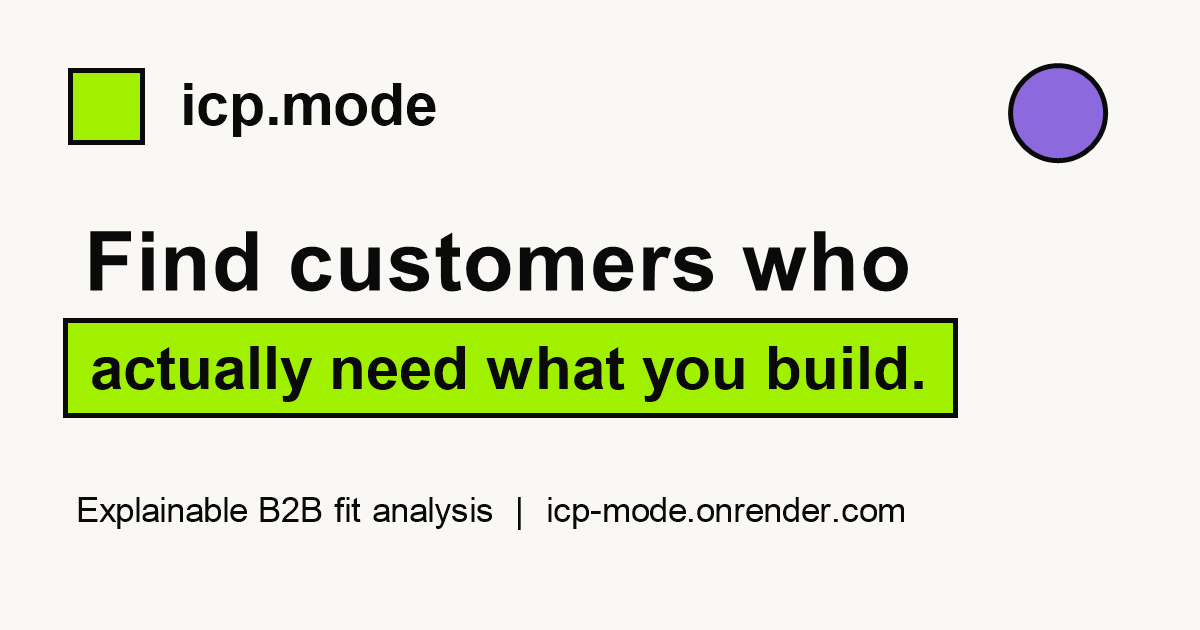
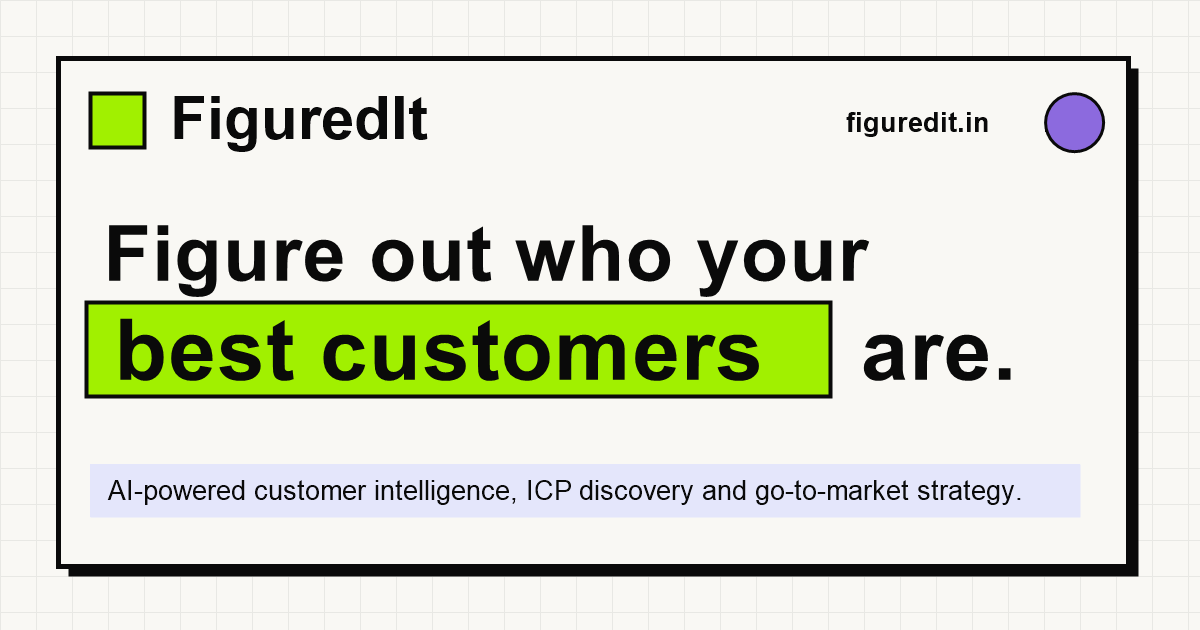
Rebrand ICP app as FiguredIt

Changed region(s): [[0.0308, 0.0905, 0.9558, 0.9349]]

diff --git a/src/pages/ICPReportPage.tsx b/src/pages/ICPReportPage.tsx
@@ -345,7 +345,7 @@ export const ICPReportPage: React.FC<ICPReportPageProps> = ({ params }) => {
     const url = URL.createObjectURL(new Blob(['\uFEFF', csvContent], { type: 'text/csv;charset=utf-8' }));
     const link = document.createElement('a');
     link.setAttribute('href', url);
-    link.setAttribute('download', `ICP_Dossier_${report.datasetId}_${Date.now()}.csv`);
+    link.setAttribute('download', `FiguredIt_ICP_Dossier_${report.datasetId}_${Date.now()}.csv`);
     document.body.appendChild(link);
     link.click();
     document.body.removeChild(link);
@@ -354,15 +354,22 @@ export const ICPReportPage: React.FC<ICPReportPageProps> = ({ params }) => {
   };
 
   const handleExportJSON = () => {
+    const brandedReport = {
+      ...report,
+      evidenceLimitations: {
+        ...report.evidenceLimitations,
+        statutoryNotice: report.evidenceLimitations.statutoryNotice.replace(/ICP\.MODE/gi, 'FiguredIt'),
+      },
+    };
     const content = JSON.stringify({
       formatVersion: 1,
       exportedAt: new Date().toISOString(),
-      report,
+      report: brandedReport,
     }, null, 2);
     const url = URL.createObjectURL(new Blob([content], { type: 'application/json;charset=utf-8' }));
     const link = document.createElement('a');
     link.href = url;
-    link.download = `ICP_Dossier_${report.datasetId.replace(/[^a-zA-Z0-9_-]/g, '_')}_${Date.now()}.json`;
+    link.download = `FiguredIt_ICP_Dossier_${report.datasetId.replace(/[^a-zA-Z0-9_-]/g, '_')}_${Date.now()}.json`;
     document.body.appendChild(link);
     link.click();
     link.remove();
@@ -372,7 +379,7 @@ export const ICPReportPage: React.FC<ICPReportPageProps> = ({ params }) => {
 
   // Copy Executive Summary Text
   const handleCopySummary = () => {
-    const summaryText = `ICP.MODE EXECUTIVE STRATEGIC INTELLIGENCE DOSSIER
+    const summaryText = `FiguredIt EXECUTIVE STRATEGIC INTELLIGENCE DOSSIER
 =====================================================
 Seller: ${report.sellerCompanyName} (${report.sellerProductName})
 Dataset: ${report.datasetFilename}
@@ -397,7 +404,7 @@ KEY METRICS:
 VALUE PROPOSITION:
 "${sellerProfile.valueProposition}"
 
-Generated by icp.mode · Algorithmic Strategy Engine`;
+Generated by FiguredIt · Algorithmic Strategy Engine`;
 
     navigator.clipboard.writeText(summaryText);
     setCopiedSummary(true);
@@ -487,8 +494,8 @@ Generated by icp.mode · Algorithmic Strategy Engine`;
             <div className="flex flex-wrap items-center justify-between gap-3">
               <div className="flex items-center gap-2">
                 <span className="w-3 h-3 bg-[#A1F000] border-[1.5px] border-[#0A0A0A]" />
-                <span className="font-mono text-xs font-black uppercase text-[#0A0A0A]">
-                  ICP.MODE // STRATEGIC INTELLIGENCE REPORT // {report.datasetFilename}
+                <span className="font-mono text-xs font-black text-[#0A0A0A]">
+                  FiguredIt // STRATEGIC INTELLIGENCE REPORT // {report.datasetFilename}
                 </span>
               </div>
               <StickerBadge color={report.isProvisionalHypothesis ? 'peach' : 'mint'} rotate="-2">
@@ -1419,7 +1426,7 @@ Generated by icp.mode · Algorithmic Strategy Engine`;
                 {report.evidenceLimitations.unknownAttributes.map((u, i) => <li key={i}>{u}</li>)}
               </ul>
               <div className="pt-2 font-mono text-[10px] font-bold text-amber-950">
-                <p>⚠ {report.evidenceLimitations.statutoryNotice}</p>
+                <p>⚠ {report.evidenceLimitations.statutoryNotice.replace(/ICP\.MODE/gi, 'FiguredIt')}</p>
                 <p className="mt-1">⚠ {report.evidenceLimitations.brandEquityNotice}</p>
               </div>
             </div>
@@ -1427,7 +1434,7 @@ Generated by icp.mode · Algorithmic Strategy Engine`;
 
           {/* SIGNOFF FOOTER */}
           <div className="border-t-[2.5px] border-[#0A0A0A] pt-6 flex justify-between items-center text-xs font-mono text-[#0A0A0A]/70">
-            <span>Generated by icp.mode · Algorithmic Strategy Engine · {report.analysisVersion}</span>
+            <span>Generated by FiguredIt · Algorithmic Strategy Engine · {report.analysisVersion}</span>
             <span>Findings remain an ICP Hypothesis until validated by customer outcomes.</span>
           </div>
 

diff --git a/src/pages/PrivacyPage.tsx b/src/pages/PrivacyPage.tsx
@@ -5,7 +5,7 @@ export const PrivacyPage: React.FC = () => {
     <main className="min-h-screen bg-[#F9F8F4] px-6 py-10 text-[#0A0A0A]">
       <div className="mx-auto max-w-3xl">
         <a href="/" className="mb-8 inline-block font-mono text-sm font-bold hover:underline">
-          ← icp.mode
+          ← FiguredIt
         </a>
         <h1 className="mb-2 text-4xl font-black">Privacy notice</h1>
         <p className="mb-8 font-mono text-sm text-slate-600">Effective October 14, 2026</p>
@@ -13,10 +13,10 @@ export const PrivacyPage: React.FC = () => {
         <div className="space-y-7 leading-relaxed">
           <section>
             <h2 className="mb-2 text-xl font-bold">Information used for your account</h2>
-            <p>When you sign in with Google, Google shares your name, email address, and basic profile information with our authentication provider, Supabase. We use this information to create and maintain your icp.mode account and show your account identity in the app. Email and password sign-in is also available.</p>
+            <p>When you sign in with Google, Google shares your name, email address, and basic profile information with our authentication provider, Supabase. We use this information to create and maintain your FiguredIt account and show your account identity in the app. Email and password sign-in is also available.</p>
           </section>
           <section>
-            <h2 className="mb-2 text-xl font-bold">Information you add to icp.mode</h2>
+            <h2 className="mb-2 text-xl font-bold">Information you add to FiguredIt</h2>
             <p>The app processes the offering details, company information, and CSV or spreadsheet records you provide to generate customer fit analyses, segments, and reports. Account data and saved analyses are stored in Supabase. Some app preferences and demo data are stored in your browser.</p>
           </section>
           <section>
@@ -29,7 +29,7 @@ export const PrivacyPage: React.FC = () => {
           </section>
           <section>
             <h2 className="mb-2 text-xl font-bold">Questions and requests</h2>
-            <p>For questions about your data or to request access or deletion, contact <a className="underline" href="mailto:akashvjoff@gmail.com">akashvjoff@gmail.com</a>. We will review requests against the data held by icp.mode and its service providers.</p>
+            <p>For questions about your data or to request access or deletion, contact <a className="underline" href="mailto:akashvjoff@gmail.com">akashvjoff@gmail.com</a>. We will review requests against the data held by FiguredIt and its service providers.</p>
           </section>
         </div>
       </div>

diff --git a/index.html b/index.html
@@ -4,17 +4,20 @@
     <meta charset="UTF-8" />
     <meta name="viewport" content="width=device-width, initial-scale=1.0" />
     <meta name="google-site-verification" content="wzZfycD4kSYnbk_t9Q3vjUA7cA3qOuYSmUYN-yHoGDk" />
-    <title>Find your ideal customers | icp.mode</title>
-    <meta name="description" content="AI-powered Ideal Customer Profile discovery, strategic analysis (Need Gap, 5C, STP, Marketing Mix), and explainable fit scoring for B2B leads." />
-    <meta property="og:title" content="Find your ideal customers | icp.mode" />
-    <meta property="og:description" content="AI-powered Ideal Customer Profile discovery, strategic analysis (Need Gap, 5C, STP, Marketing Mix), and explainable fit scoring for B2B leads." />
+    <title>FiguredIt — AI-Powered ICP Discovery &amp; GTM Strategy</title>
+    <meta name="description" content="AI-powered customer intelligence, ICP discovery and go-to-market strategy." />
+    <meta property="og:title" content="FiguredIt — Figure out who your best customers are." />
+    <meta property="og:description" content="AI-powered customer intelligence, ICP discovery and go-to-market strategy." />
     <meta property="og:type" content="website" />
-    <meta property="og:image" content="https://icp-mode.onrender.com/og-image.png" />
+    <meta property="og:url" content="https://figuredit.in/" />
+    <meta property="og:image" content="https://figuredit.in/og-image.png" />
     <meta property="og:image:width" content="1200" />
     <meta property="og:image:height" content="630" />
     <meta name="twitter:card" content="summary_large_image" />
-    <meta name="twitter:image" content="https://icp-mode.onrender.com/og-image.png" />
-    <link rel="canonical" href="https://icp-mode.onrender.com/" />
+    <meta name="twitter:title" content="FiguredIt — Figure out who your best customers are." />
+    <meta name="twitter:description" content="AI-powered customer intelligence, ICP discovery and go-to-market strategy." />
+    <meta name="twitter:image" content="https://figuredit.in/og-image.png" />
+    <link rel="canonical" href="https://figuredit.in/" />
     <link rel="icon" type="image/svg+xml" href="/favicon.svg" />
     <link rel="preconnect" href="https://fonts.googleapis.com" />
     <link rel="preconnect" href="https://fonts.gstatic.com" crossorigin />

diff --git a/src/components/ui/AppNavbar.tsx b/src/components/ui/AppNavbar.tsx
@@ -17,14 +17,14 @@ export const AppNavbar: React.FC = () => {
       <div className="mx-auto flex h-20 max-w-7xl min-w-0 items-center justify-between gap-2 px-4 sm:px-8">
         <div className="hidden xl:flex items-center gap-2.5 shrink-0">
           <span className="w-3.5 h-3.5 bg-[#A1F000] border-[2px] border-[#0A0A0A] shadow-[1.5px_1.5px_0px_#0A0A0A]" aria-hidden="true" />
-          <span className="font-mono text-xs font-black tracking-wider uppercase">THE CUSTOMER-FIT ENGINE</span>
+          <span className="font-mono text-xs font-black tracking-wider uppercase">AI CUSTOMER INTELLIGENCE</span>
         </div>
-        <a href="/" className="shrink-0 text-2xl sm:text-3xl font-black tracking-tighter hover:text-[#8C6ADE]" aria-label="icp.mode home">icp<span className="text-[#A1F000] drop-shadow-[1px_1px_0px_#0A0A0A]">.</span>mode</a>
+        <a href="/" className="shrink-0 text-2xl sm:text-3xl font-black tracking-tighter hover:text-[#8C6ADE]" aria-label="FiguredIt home">Figured<span className="text-[#A1F000] drop-shadow-[1px_1px_0px_#0A0A0A]">It</span></a>
         <nav aria-label="Main navigation" className="hidden lg:flex items-center gap-4 xl:gap-5">
           {links.map(link => <a key={link.href} href={link.href} className="font-mono text-[10px] xl:text-xs font-bold tracking-wide hover:underline">{link.label}</a>)}
         </nav>
         <div className="flex items-center gap-2">
-          <BrutalistLink href="/demo" size="sm" variant="lime" icon={<ArrowRight size={14} />} className="text-xs">TRY DEMO</BrutalistLink>
+          <BrutalistLink href="/demo" size="sm" variant="lime" icon={<ArrowRight size={14} />} className="hidden sm:inline-flex text-xs">EXPLORE DEMO</BrutalistLink>
           <button type="button" onClick={() => setMobileMenuOpen(open => !open)} aria-label={mobileMenuOpen ? 'Close navigation menu' : 'Open navigation menu'} aria-expanded={mobileMenuOpen} aria-controls="mobile-navigation" className="lg:hidden p-2 border-[2px] border-[#0A0A0A] rounded-lg bg-white shadow-[2px_2px_0px_#0A0A0A]">
             {mobileMenuOpen ? <X size={20} aria-hidden="true" /> : <Menu size={20} aria-hidden="true" />}
           </button>

diff --git a/src/components/marketing/LandingHero.tsx b/src/components/marketing/LandingHero.tsx
@@ -27,14 +27,14 @@ export const LandingHero: React.FC = () => {
 
         {/* Massive Hero Heading (76-96px range fluid clamp) */}
         <div className="max-w-4xl mb-8">
-          <h1 className="text-4xl sm:text-6xl md:text-7xl lg:text-[76px] font-black text-[#0A0A0A] tracking-tighter leading-[0.98] text-balance">
-            Find customers who <span className="bg-[#A1F000] px-2 py-0.5 rounded-lg border-[2.5px] border-[#0A0A0A] shadow-[3px_4px_0px_#0A0A0A] inline-block -rotate-1">actually need</span> what you build.
+          <h1 className="text-3xl sm:text-6xl md:text-7xl lg:text-[76px] font-black text-[#0A0A0A] tracking-tighter leading-[0.98] text-balance">
+            Figure out who your <span className="bg-[#A1F000] px-2 py-0.5 rounded-lg border-[2.5px] border-[#0A0A0A] shadow-[3px_4px_0px_#0A0A0A] inline-block -rotate-1">best customers</span> are.
           </h1>
         </div>
 
         {/* Subhead with bold clarity */}
         <p className="text-lg sm:text-xl text-[#0A0A0A]/80 max-w-2xl font-medium leading-relaxed mb-10">
-          Stop burning outbound budget on raw company headcount. icp.mode models real buyer motivation through <strong className="text-[#0A0A0A] font-black">Need Gap Analysis</strong>, <strong className="text-[#0A0A0A] font-black">5C Dynamics</strong>, and <strong className="text-[#0A0A0A] font-black">Deterministic Fit Scoring</strong>.
+          AI-powered customer intelligence, ICP discovery and go-to-market strategy.
         </p>
 
         {/* Hero Actions */}
@@ -45,7 +45,7 @@ export const LandingHero: React.FC = () => {
             href="/demo"
             icon={<ArrowRight className="w-5 h-5" />}
           >
-            START ICP DISCOVERY
+            FIND MY IDEAL CUSTOMERS
           </BrutalistLink>
 
           <BrutalistLink
@@ -54,7 +54,7 @@ export const LandingHero: React.FC = () => {
             href="/demo#accounts-heading"
             icon={<Sparkles className="w-5 h-5 text-[#8C6ADE]" />}
           >
-            LOAD 5 SAMPLE B2B LEADS
+            EXPLORE DEMO
           </BrutalistLink>
         </div>
 

diff --git a/server.ts b/server.ts
@@ -1305,9 +1305,9 @@ async function startServer() {
         || /^\/(uploads|companies|segments|strategy)\/[^/]+$/.test(pathname)
         || /^\/icp\/report\/[^/]+$/.test(pathname);
       const publicTitles: Record<string, string> = {
-        '/': 'Find your ideal customers | icp.mode',
-        '/demo': 'Try the public demo | icp.mode',
-        '/privacy': 'Privacy notice | icp.mode',
+        '/': 'FiguredIt — AI-Powered ICP Discovery &amp; GTM Strategy',
+        '/demo': 'Try the public demo | FiguredIt',
+        '/privacy': 'Privacy notice | FiguredIt',
       };
       const routeTitles: Record<string, string> = {
         auth: 'Sign in or create an account', onboarding: 'Set up your offering', dashboard: 'Dashboard',
@@ -1316,10 +1316,11 @@ async function startServer() {
       };
       try {
         let html = fs.readFileSync(indexPath, 'utf8');
-        const title = publicTitles[pathname] || `${knownRoute ? routeTitles[pathname.split('/')[1]] : 'Page not found'} | icp.mode`;
+        const title = publicTitles[pathname] || `${knownRoute ? routeTitles[pathname.split('/')[1]] : 'Page not found'} | FiguredIt`;
         html = html.replace(/<title>[^<]*<\/title>/, `<title>${title}</title>`);
         if (publicTitles[pathname]) {
-          html = html.replace('rel="canonical" href="https://icp-mode.onrender.com/"', `rel="canonical" href="https://icp-mode.onrender.com${pathname}"`);
+          html = html.replace('rel="canonical" href="https://figuredit.in/"', `rel="canonical" href="https://figuredit.in${pathname}"`);
+          html = html.replace('property="og:url" content="https://figuredit.in/"', `property="og:url" content="https://figuredit.in${pathname}"`);
         } else {
           html = html.replace(/\s*<link rel="canonical"[^>]*>/, '');
           html = html.replace('</head>', '<meta name="robots" content="noindex" /></head>');

diff --git a/src/components/marketing/MarketingSequence.tsx b/src/components/marketing/MarketingSequence.tsx
@@ -14,7 +14,7 @@ export const MarketingSequence: React.FC = () => {
           eyebrow="CLASSICAL MARKETING SEQUENCE"
           eyebrowColor="bg-[#6AAAFB]"
           title="The 4-stage pipeline that eliminates outbound guesswork."
-          description="Surface industry taxonomies lie. icp.mode models customer decision-making using the exact sequence practiced by enterprise GTM strategists."
+          description="Surface industry taxonomies lie. FiguredIt models customer decision-making using the exact sequence practiced by enterprise GTM strategists."
         />
 
         {/* 4 Pastel Step Cards in Sequence */}
@@ -82,7 +82,7 @@ export const MarketingSequence: React.FC = () => {
               </h3>
 
               <p className="text-sm sm:text-base text-[#0A0A0A]/85 leading-relaxed font-normal">
-                Lead lists without verified historical closed-won or closed-lost conversion data <strong className="text-[#0A0A0A] font-bold">cannot mathematically prove ideal customer quality</strong>. In icp.mode, initial evaluations are explicitly governed as an <span className="bg-[#FFE3B3] px-1.5 py-0.5 rounded border border-[#0A0A0A] font-bold">ICP Hypothesis</span> until conversion velocity and retention metrics validate the cohort.
+                Lead lists without verified historical closed-won or closed-lost conversion data <strong className="text-[#0A0A0A] font-bold">cannot mathematically prove ideal customer quality</strong>. In FiguredIt, initial evaluations are explicitly governed as an <span className="bg-[#FFE3B3] px-1.5 py-0.5 rounded border border-[#0A0A0A] font-bold">ICP Hypothesis</span> until conversion velocity and retention metrics validate the cohort.
               </p>
 
               <div className="flex flex-wrap items-center gap-3 pt-2 text-xs font-mono font-bold text-[#0A0A0A]">

diff --git a/src/components/layout/AppSidebar.tsx b/src/components/layout/AppSidebar.tsx
@@ -77,7 +77,7 @@ export const AppSidebar: React.FC = () => {
           className="flex items-center gap-2 font-black text-xl tracking-tighter text-[#0A0A0A] cursor-pointer"
         >
           <span className="w-3 h-3 bg-[#A1F000] border-[1.5px] border-[#0A0A0A] inline-block shadow-[1px_1px_0px_#0A0A0A]" />
-          <span>icp<span className="text-[#A1F000]">.</span>mode</span>
+          <span>Figured<span className="text-[#A1F000]">It</span></span>
         </button>
 
         <div className="flex items-center gap-2">
@@ -118,7 +118,7 @@ export const AppSidebar: React.FC = () => {
                 className="flex items-center text-left cursor-pointer group"
               >
                 <span className="text-2xl font-black tracking-tighter text-[#0A0A0A] group-hover:text-[#8C6ADE] transition-colors">
-                  icp<span className="text-[#A1F000]">.</span>mode
+                  Figured<span className="text-[#A1F000]">It</span>
                 </span>
               </button>
 
@@ -134,7 +134,7 @@ export const AppSidebar: React.FC = () => {
             <div className="flex items-center gap-2">
               <span className="w-2.5 h-2.5 bg-[#A1F000] border-[1.5px] border-[#0A0A0A] shadow-[1px_1px_0px_#0A0A0A]" />
               <span className="font-mono text-[10px] font-black uppercase tracking-widest text-[#0A0A0A]">
-                THE CUSTOMER-FIT ENGINE
+                AI CUSTOMER INTELLIGENCE
               </span>
             </div>
           </div>

diff --git a/src/pages/LandingPage.tsx b/src/pages/LandingPage.tsx
@@ -20,16 +20,17 @@ export const LandingPage: React.FC = () => {
         <div className="max-w-7xl mx-auto flex flex-col sm:flex-row items-center justify-between gap-6">
           <div className="flex items-center gap-3">
             <span className="text-xl font-black tracking-tighter text-[#0A0A0A]">
-              icp<span className="text-[#A1F000]">.</span>mode
+              Figured<span className="text-[#A1F000]">It</span>
             </span>
             <span className="font-mono text-xs text-[#0A0A0A]/40 font-bold">/</span>
-            <span className="font-mono text-xs font-bold text-[#0A0A0A]/70 uppercase">
-              The Customer-Fit Engine
+            <span className="font-mono text-xs font-bold text-[#0A0A0A]/70">
+              Figure out who your best customers are.
             </span>
           </div>
 
           <div className="flex flex-wrap items-center gap-4 text-xs font-mono font-bold text-[#0A0A0A]">
-            <a href="/demo" className="underline hover:text-[#8C6ADE]">TRY DEMO</a>
+            <a href="https://figuredit.in" className="underline hover:text-[#8C6ADE]">figuredit.in</a>
+            <a href="/demo" className="underline hover:text-[#8C6ADE]">EXPLORE DEMO</a>
             <a href="/privacy" className="underline hover:text-[#8C6ADE]">PRIVACY</a>
             <span className="bg-white px-2 py-0.5 rounded border border-[#0A0A0A]">
               NEED GAP ANALYSIS

diff --git a/src/pages/AuthPage.tsx b/src/pages/AuthPage.tsx
@@ -79,7 +79,7 @@ export const AuthPage: React.FC = () => {
       if (tab === 'signin') {
         const res = await signIn(email, password);
         if (res.success) {
-          addToast('Signed in successfully. Welcome to icp.mode!', 'success');
+          addToast('Signed in successfully. Welcome to FiguredIt!', 'success');
           navigate('/dashboard');
         } else {
           setLocalError(res.error || 'Failed to sign in.');
@@ -180,7 +180,7 @@ export const AuthPage: React.FC = () => {
               ACCOUNT ACCESS
             </SectionEyebrow>
             <h1 className="text-3xl font-black text-[#0A0A0A] tracking-tight">
-              {tab === 'signin' && 'Sign in to icp.mode'}
+              {tab === 'signin' && 'Sign in to FiguredIt'}
               {tab === 'signup' && 'Create an Account'}
               {tab === 'forgot' && 'Reset Password'}
             </h1>
@@ -424,7 +424,7 @@ export const AuthPage: React.FC = () => {
       </div>
 
       <div className="text-center font-mono text-xs text-[#0A0A0A]/50 mt-8">
-        icp.mode · Algorithmic Customer-Fit Engine · Supabase Auth Protected ·{' '}
+        FiguredIt · AI-powered customer intelligence · Supabase Auth Protected ·{' '}
         <a href="/privacy" className="underline hover:text-[#0A0A0A]">Privacy notice</a>
       </div>
     </div>

diff --git a/src/pages/PublicDemoPage.tsx b/src/pages/PublicDemoPage.tsx
@@ -38,7 +38,7 @@ export const PublicDemoPage: React.FC = () => {
     <div className="min-h-screen max-w-full overflow-x-clip bg-[#F9F8F4] text-[#0A0A0A]">
       <header className="border-b-[3px] border-black px-6 py-5">
         <div className="mx-auto max-w-6xl flex flex-wrap items-center justify-between gap-4">
-          <a href="/" className="font-black text-2xl tracking-tighter" aria-label="icp.mode home">icp<span className="text-[#8C6ADE]">.</span>mode</a>
+          <a href="/" className="font-black text-2xl tracking-tighter" aria-label="FiguredIt home">Figured<span className="text-[#8C6ADE]">It</span></a>
           <nav className="flex flex-wrap items-center gap-4 font-mono text-xs font-bold"><a href="/" className="hover:underline">HOME</a><a href="/auth" className="hover:underline">SIGN IN</a></nav>
         </div>
       </header>

diff --git a/src/pages/NotFoundPage.tsx b/src/pages/NotFoundPage.tsx
@@ -5,7 +5,7 @@ export const NotFoundPage: React.FC = () => (
     <div className="max-w-lg w-full rounded-2xl border-[3px] border-[#0A0A0A] bg-white p-8 shadow-[6px_7px_0px_#0A0A0A]">
       <p className="font-mono text-sm font-black">404 / PAGE NOT FOUND</p>
       <h1 className="mt-4 text-4xl font-black">This page doesn't exist.</h1>
-      <p className="mt-3 text-[#0A0A0A]/70">Check the address or head back to icp.mode.</p>
+      <p className="mt-3 text-[#0A0A0A]/70">Check the address or head back to FiguredIt.</p>
       <div className="mt-8 flex flex-wrap gap-3 font-mono text-sm font-bold">
         <a className="rounded-lg border-2 border-black bg-[#A1F000] px-4 py-3 hover:bg-[#92dc00]" href="/">Go home</a>
         <a className="rounded-lg border-2 border-black bg-white px-4 py-3 hover:bg-[#F9F8F4]" href="/demo">Try the demo</a>
